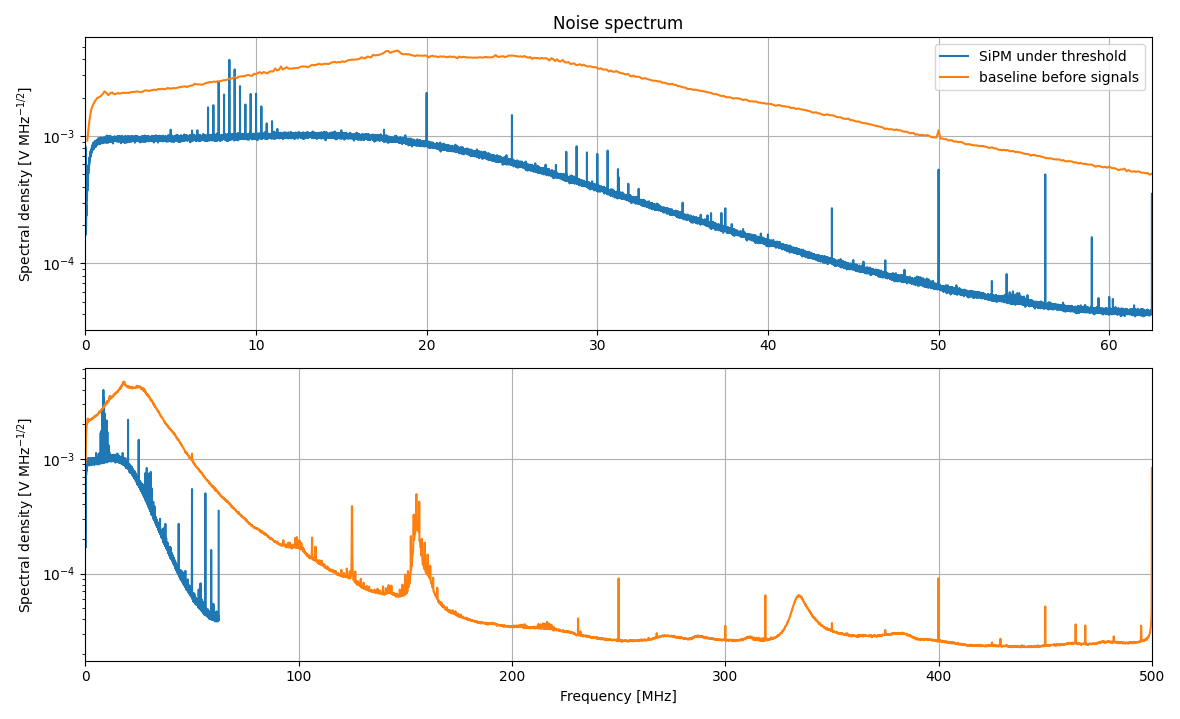
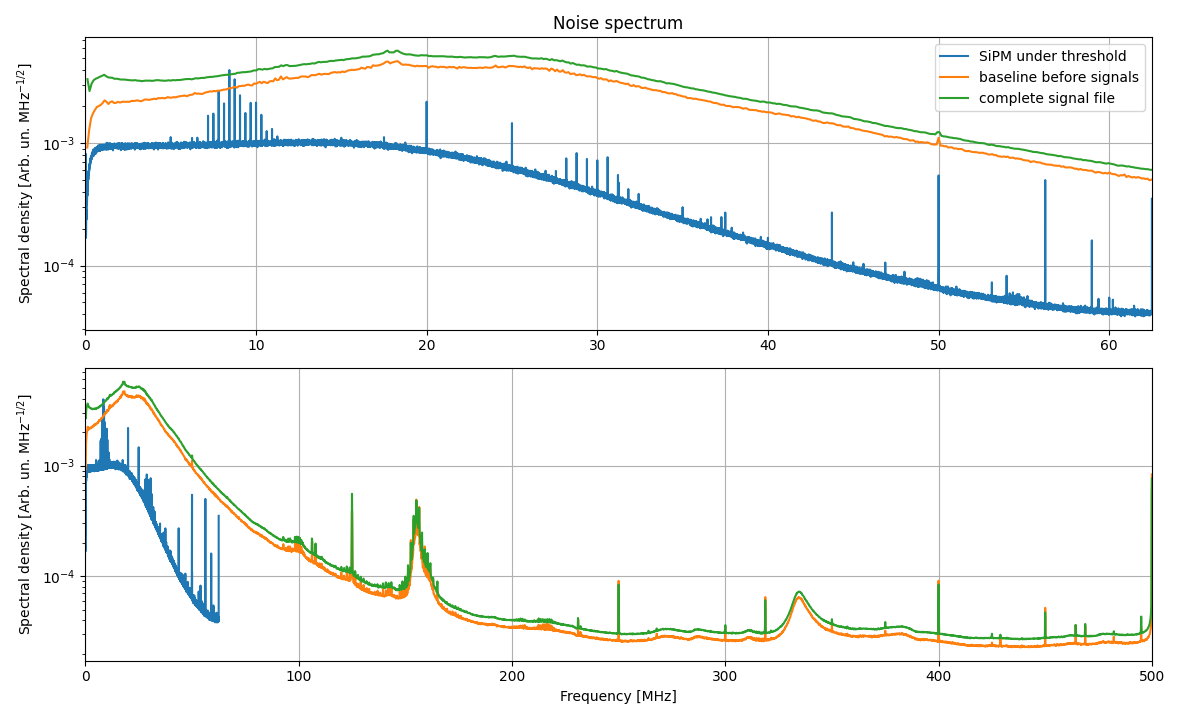
add nonstationary signals to spectrum
Just to see what happens.

diff --git a/spectrum.py b/spectrum.py
@@ -33,19 +33,25 @@ print(f'ignoring {np.sum(ignore)} events with values < 700 in baseline zone')
 # indices1 = start[selection].reshape(-1, 1) + np.arange(1000)
 # nosignal = data[indices0, 0, indices1]
 
-kw = dict()
+kw = dict() # arguments for signal.periodogram()
+
+print('computing noise file spectrum...')
 counts = np.unique(noise.counts)
 assert len(counts) == 2 and counts[0] == 0
 noise_array = noise._content.reshape(-1, counts[-1])
-print('computing noise file spectrum...')
 f1, s1s = signal.periodogram(noise_array, 125e6, **kw)
+s1 = np.median(s1s, axis=0)
+s1 *= (2 / 2 ** 14) ** 2 # 2 Vpp, 14 bit
+
 print('computing signal file baseline spectrum...')
 f2, s2s = signal.periodogram(baseline_zone[~ignore], 1e9, **kw)
-s1 = np.median(s1s, axis=0)
 s2 = np.median(s2s, axis=0)
-
-s1 *= (2 / 2 ** 14) ** 2 # 2 Vpp, 14 bit
 s2 *= (1 / 2 ** 10) ** 2 # 1 Vpp, 10 bit
+
+print('computing signal file global spectrum...')
+flatdata = data[:, 0, :].reshape(-1)
+f3, s3 = signal.welch(flatdata, 1e9, nperseg=2 ** 13, average='median')
+s3 *= (1 / 2 ** 10) ** 2 # 1 Vpp, 10 bit
 
 fig = fighelp.figwithsize([11.8, 7.19], resetfigcount=True)
 
@@ -56,11 +62,13 @@ for i, ax in enumerate(axs):
     ax.plot(f1[1:] / 1e6, np.sqrt(s1[1:]) * 1e3, label='SiPM under threshold')
     sel = f2 < f1[-1] if i == 0 else slice(None)
     ax.plot(f2[sel][1:] / 1e6, np.sqrt(s2[sel][1:]) * 1e3, label='baseline before signals')
+    sel = f3 < f1[-1] if i == 0 else slice(None)
+    ax.plot(f3[sel][1:] / 1e6, np.sqrt(s3[sel][1:]) * 1e3, label='complete signal file')
 
-    if i == 0:
+    if ax.is_first_row():
         ax.set_title('Noise spectrum')
         ax.legend(loc='best')
-    if i == 1:
+    if ax.is_last_row():
         ax.set_xlabel('Frequency [MHz]')
     ax.set_ylabel('Spectral density [Arb. un. MHz$^{-1/2}$]')
     # ax.set_ylabel('Spectral density [V MHz$^{-1/2}$]')
